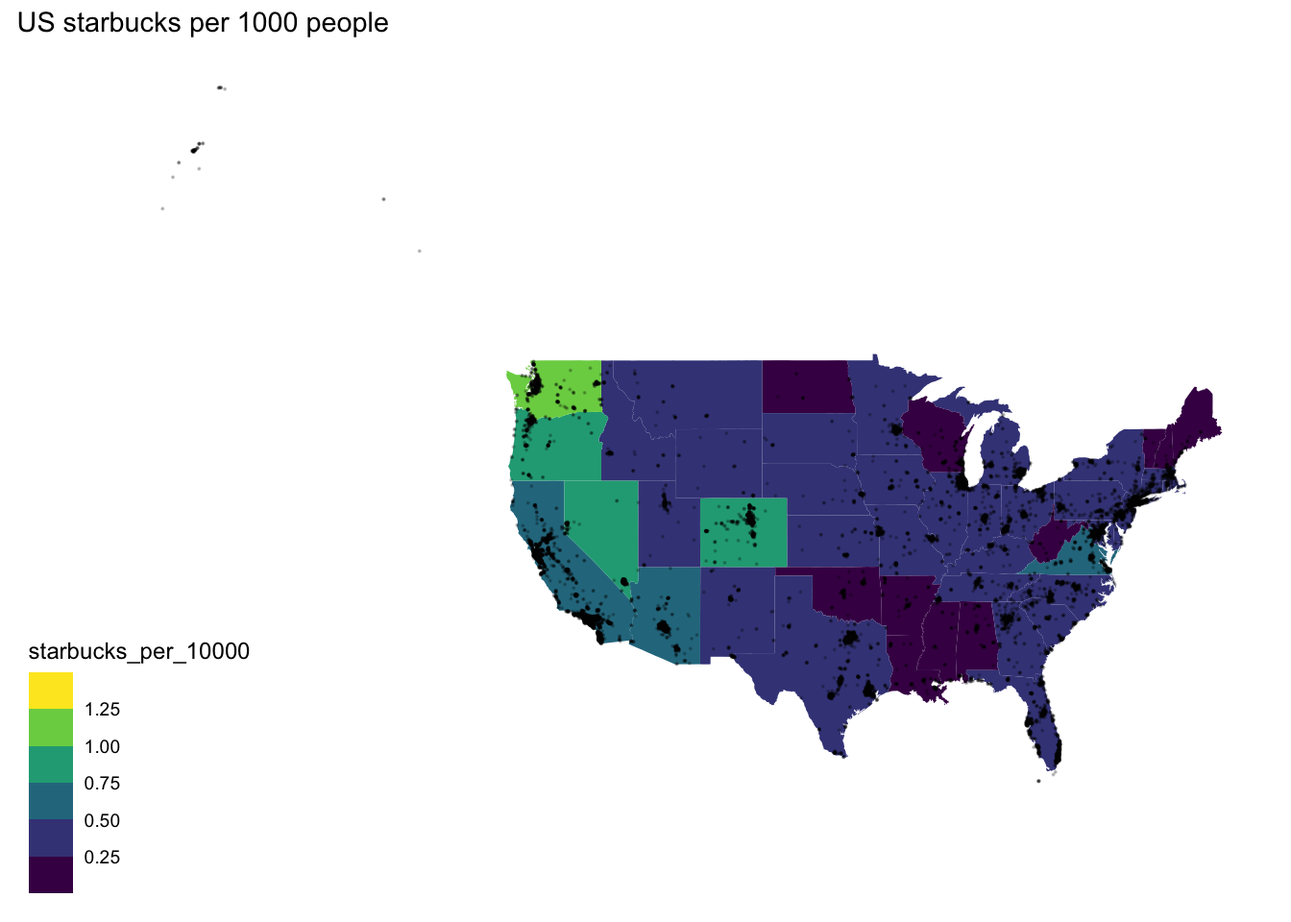
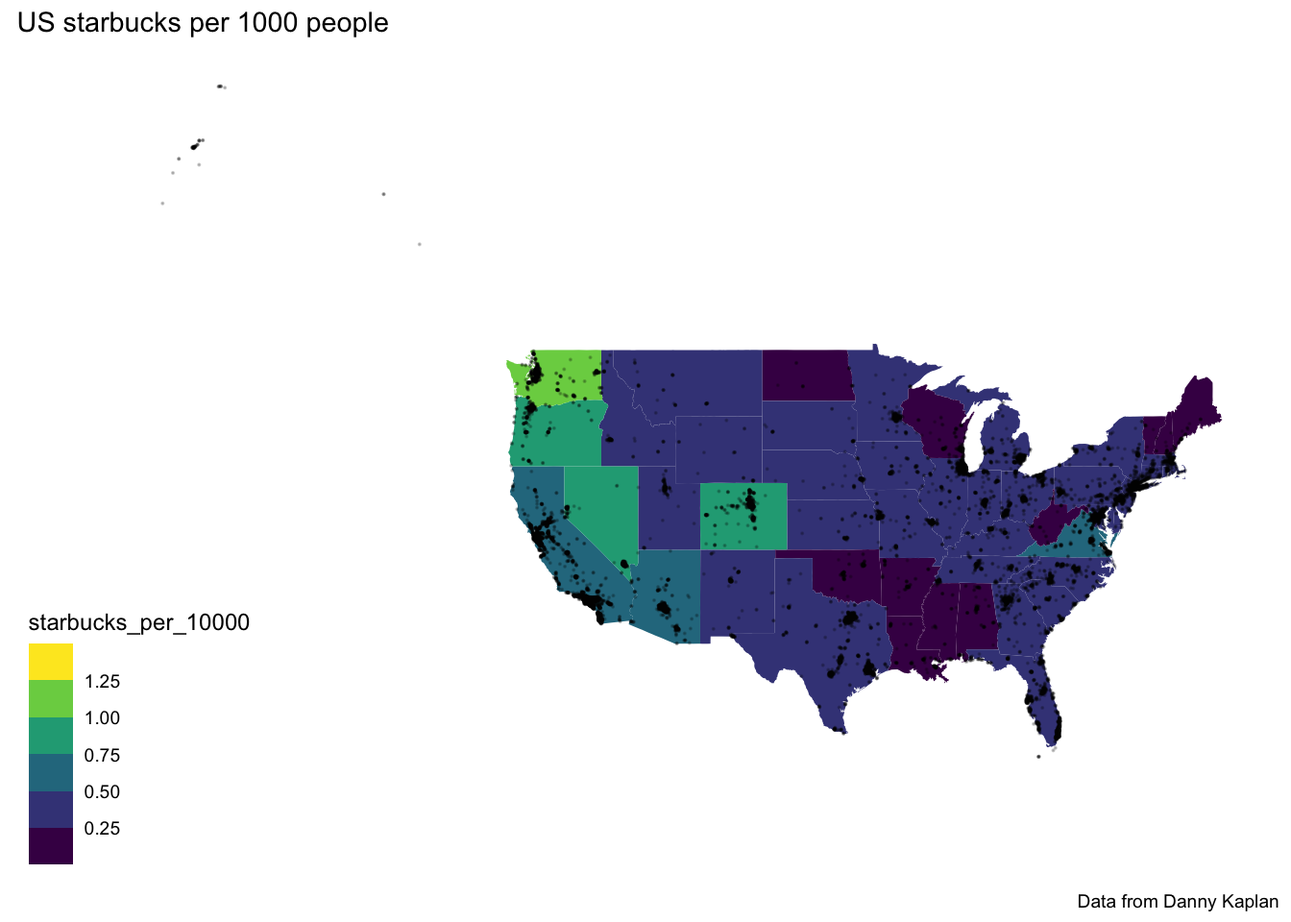
Built site for gh-pages

diff --git a/bw/bw-spatial.html b/bw/bw-spatial.html
@@ -270,7 +270,7 @@ pre > code.sourceCode > span > a:first-child::before { text-decoration: underlin
 <main class="content" id="quarto-document-content"><header id="title-block-header" class="quarto-title-block default"><nav class="quarto-page-breadcrumbs quarto-title-breadcrumbs d-none d-lg-block" aria-label="breadcrumb"><ol class="breadcrumb"><li class="breadcrumb-item"><a href="../bw/bw-uni.html">Best Work</a></li><li class="breadcrumb-item"><a href="../bw/bw-spatial.html"><span class="chapter-number">5</span>&nbsp; <span class="chapter-title">Spatial Viz</span></a></li></ol></nav><div class="quarto-title">
 <div class="quarto-title-block"><div><h1 class="title">
 <span class="chapter-number">5</span>&nbsp; <span class="chapter-title">Spatial Viz</span>
-</h1><button type="button" class="btn code-tools-button" id="quarto-code-tools-source"><i class="bi"></i> Code</button></div></div>
+</h1><button type="button" class="btn code-tools-button dropdown-toggle" id="quarto-code-tools-menu" data-bs-toggle="dropdown" aria-expanded="false"><i class="bi"></i> Code</button><ul class="dropdown-menu dropdown-menu-end" aria-labelelledby="quarto-code-tools-menu"><li><a id="quarto-show-all-code" class="dropdown-item" href="javascript:void(0)" role="button">Show All Code</a></li><li><a id="quarto-hide-all-code" class="dropdown-item" href="javascript:void(0)" role="button">Hide All Code</a></li><li><hr class="dropdown-divider"></li><li><a id="quarto-view-source" class="dropdown-item" href="javascript:void(0)" role="button">View Source</a></li></ul></div></div>
 </div>
 
 
@@ -285,80 +285,58 @@ pre > code.sourceCode > span > a:first-child::before { text-decoration: underlin
 
 
 </header><div class="cell">
-<div class="sourceCode cell-code" id="cb1"><pre class="sourceCode numberSource r number-lines code-with-copy"><code class="sourceCode r"><span id="cb1-1"><a href="#cb1-1"></a><span class="fu">library</span>(tidyr)</span>
+<details class="code-fold"><summary>Code</summary><div class="sourceCode cell-code" id="cb1"><pre class="sourceCode numberSource r number-lines code-with-copy"><code class="sourceCode r"><span id="cb1-1"><a href="#cb1-1"></a><span class="fu">library</span>(tidyr)</span>
 <span id="cb1-2"><a href="#cb1-2"></a><span class="fu">library</span>(ggplot2)</span>
-<span id="cb1-3"><a href="#cb1-3"></a><span class="fu">library</span>(tidyverse)</span></code><button title="Copy to Clipboard" class="code-copy-button"><i class="bi"></i></button></pre></div>
-<div class="cell-output cell-output-stderr">
-<pre><code>── Attaching core tidyverse packages ──────────────────────── tidyverse 2.0.0 ──
-✔ dplyr     1.1.4     ✔ readr     2.1.5
-✔ forcats   1.0.0     ✔ stringr   1.5.1
-✔ lubridate 1.9.4     ✔ tibble    3.2.1
-✔ purrr     1.0.2     
-── Conflicts ────────────────────────────────────────── tidyverse_conflicts() ──
-✖ dplyr::filter() masks stats::filter()
-✖ dplyr::lag()    masks stats::lag()
-ℹ Use the conflicted package (&lt;http://conflicted.r-lib.org/&gt;) to force all conflicts to become errors</code></pre>
-</div>
-<div class="sourceCode cell-code" id="cb3"><pre class="sourceCode numberSource r number-lines code-with-copy"><code class="sourceCode r"><span id="cb3-1"><a href="#cb3-1"></a><span class="fu">library</span>(openintro)</span></code><button title="Copy to Clipboard" class="code-copy-button"><i class="bi"></i></button></pre></div>
-<div class="cell-output cell-output-stderr">
-<pre><code>Loading required package: airports
-Loading required package: cherryblossom
-Loading required package: usdata</code></pre>
-</div>
-<div class="sourceCode cell-code" id="cb5"><pre class="sourceCode numberSource r number-lines code-with-copy"><code class="sourceCode r"><span id="cb5-1"><a href="#cb5-1"></a><span class="fu">library</span>(ggthemes)</span>
-<span id="cb5-2"><a href="#cb5-2"></a><span class="fu">library</span>(rnaturalearth)</span></code><button title="Copy to Clipboard" class="code-copy-button"><i class="bi"></i></button></pre></div>
+<span id="cb1-3"><a href="#cb1-3"></a><span class="fu">library</span>(tidyverse)</span>
+<span id="cb1-4"><a href="#cb1-4"></a><span class="fu">library</span>(openintro)</span>
+<span id="cb1-5"><a href="#cb1-5"></a><span class="fu">library</span>(ggthemes)</span>
+<span id="cb1-6"><a href="#cb1-6"></a><span class="fu">library</span>(rnaturalearth)</span></code><button title="Copy to Clipboard" class="code-copy-button"><i class="bi"></i></button></pre></div>
+</details>
 </div>
 <div class="cell">
-<div class="sourceCode cell-code" id="cb6"><pre class="sourceCode numberSource r number-lines code-with-copy"><code class="sourceCode r"><span id="cb6-1"><a href="#cb6-1"></a>world_boundaries <span class="ot">&lt;-</span> <span class="fu">ne_countries</span>(<span class="at">returnclass =</span> <span class="st">"sf"</span>)</span>
-<span id="cb6-2"><a href="#cb6-2"></a>states_map <span class="ot">&lt;-</span> <span class="fu">map_data</span>(<span class="st">"state"</span>)</span>
-<span id="cb6-3"><a href="#cb6-3"></a>starbucks <span class="ot">&lt;-</span> <span class="fu">read.csv</span>(<span class="st">"https://mac-stat.github.io/data/starbucks.csv"</span>)</span>
-<span id="cb6-4"><a href="#cb6-4"></a>starbucks_us_by_state <span class="ot">&lt;-</span> starbucks <span class="sc">|&gt;</span></span>
-<span id="cb6-5"><a href="#cb6-5"></a>  <span class="fu">filter</span>(Country <span class="sc">==</span> <span class="st">"US"</span>) <span class="sc">|&gt;</span></span>
-<span id="cb6-6"><a href="#cb6-6"></a>  <span class="fu">count</span>(State.Province) <span class="sc">|&gt;</span></span>
-<span id="cb6-7"><a href="#cb6-7"></a>  <span class="fu">mutate</span>(<span class="at">state_name =</span> <span class="fu">str_to_lower</span>(<span class="fu">abbr2state</span>(State.Province)))</span>
-<span id="cb6-8"><a href="#cb6-8"></a>starbucks_contiguous_us <span class="ot">&lt;-</span> starbucks <span class="sc">|&gt;</span></span>
-<span id="cb6-9"><a href="#cb6-9"></a>  <span class="fu">filter</span>(Country <span class="sc">==</span> <span class="st">"US"</span>, State.Province <span class="sc">!=</span> <span class="st">"AK"</span>, State.Province <span class="sc">!=</span> <span class="st">"HI"</span>)</span>
-<span id="cb6-10"><a href="#cb6-10"></a>census_pop_est_2018 <span class="ot">&lt;-</span> <span class="fu">read_csv</span>(<span class="st">"https://mac-stat.github.io/data/us_census_2018_state_pop_est.csv"</span>) <span class="sc">|&gt;</span></span>
-<span id="cb6-11"><a href="#cb6-11"></a>  <span class="fu">separate</span>(state, <span class="at">into =</span> <span class="fu">c</span>(<span class="st">"dot"</span>, <span class="st">"state"</span>), <span class="at">extra =</span> <span class="st">"merge"</span>) <span class="sc">|&gt;</span></span>
-<span id="cb6-12"><a href="#cb6-12"></a>  <span class="fu">select</span>(<span class="sc">-</span>dot) <span class="sc">|&gt;</span></span>
-<span id="cb6-13"><a href="#cb6-13"></a>  <span class="fu">mutate</span>(<span class="at">state =</span> <span class="fu">str_to_lower</span>(state))</span></code><button title="Copy to Clipboard" class="code-copy-button"><i class="bi"></i></button></pre></div>
-<div class="cell-output cell-output-stderr">
-<pre><code>Rows: 51 Columns: 2
-── Column specification ────────────────────────────────────────────────────────
-Delimiter: ","
-chr (1): state
-dbl (1): est_pop_2018
-
-ℹ Use `spec()` to retrieve the full column specification for this data.
-ℹ Specify the column types or set `show_col_types = FALSE` to quiet this message.</code></pre>
+<details class="code-fold"><summary>Code</summary><div class="sourceCode cell-code" id="cb2"><pre class="sourceCode numberSource r number-lines code-with-copy"><code class="sourceCode r"><span id="cb2-1"><a href="#cb2-1"></a>world_boundaries <span class="ot">&lt;-</span> <span class="fu">ne_countries</span>(<span class="at">returnclass =</span> <span class="st">"sf"</span>)</span>
+<span id="cb2-2"><a href="#cb2-2"></a>states_map <span class="ot">&lt;-</span> <span class="fu">map_data</span>(<span class="st">"state"</span>)</span>
+<span id="cb2-3"><a href="#cb2-3"></a>starbucks <span class="ot">&lt;-</span> <span class="fu">read.csv</span>(<span class="st">"https://mac-stat.github.io/data/starbucks.csv"</span>)</span>
+<span id="cb2-4"><a href="#cb2-4"></a>starbucks_us_by_state <span class="ot">&lt;-</span> starbucks <span class="sc">|&gt;</span></span>
+<span id="cb2-5"><a href="#cb2-5"></a>  <span class="fu">filter</span>(Country <span class="sc">==</span> <span class="st">"US"</span>) <span class="sc">|&gt;</span></span>
+<span id="cb2-6"><a href="#cb2-6"></a>  <span class="fu">count</span>(State.Province) <span class="sc">|&gt;</span></span>
+<span id="cb2-7"><a href="#cb2-7"></a>  <span class="fu">mutate</span>(<span class="at">state_name =</span> <span class="fu">str_to_lower</span>(<span class="fu">abbr2state</span>(State.Province)))</span>
+<span id="cb2-8"><a href="#cb2-8"></a>starbucks_contiguous_us <span class="ot">&lt;-</span> starbucks <span class="sc">|&gt;</span></span>
+<span id="cb2-9"><a href="#cb2-9"></a>  <span class="fu">filter</span>(Country <span class="sc">==</span> <span class="st">"US"</span>, State.Province <span class="sc">!=</span> <span class="st">"AK"</span>, State.Province <span class="sc">!=</span> <span class="st">"HI"</span>)</span>
+<span id="cb2-10"><a href="#cb2-10"></a>census_pop_est_2018 <span class="ot">&lt;-</span> <span class="fu">read_csv</span>(<span class="st">"https://mac-stat.github.io/data/us_census_2018_state_pop_est.csv"</span>) <span class="sc">|&gt;</span></span>
+<span id="cb2-11"><a href="#cb2-11"></a>  <span class="fu">separate</span>(state, <span class="at">into =</span> <span class="fu">c</span>(<span class="st">"dot"</span>, <span class="st">"state"</span>), <span class="at">extra =</span> <span class="st">"merge"</span>) <span class="sc">|&gt;</span></span>
+<span id="cb2-12"><a href="#cb2-12"></a>  <span class="fu">select</span>(<span class="sc">-</span>dot) <span class="sc">|&gt;</span></span>
+<span id="cb2-13"><a href="#cb2-13"></a>  <span class="fu">mutate</span>(<span class="at">state =</span> <span class="fu">str_to_lower</span>(state))</span>
+<span id="cb2-14"><a href="#cb2-14"></a></span>
+<span id="cb2-15"><a href="#cb2-15"></a>starbucks_with_2018_pop_est <span class="ot">&lt;-</span></span>
+<span id="cb2-16"><a href="#cb2-16"></a>  starbucks_us_by_state <span class="sc">|&gt;</span></span>
+<span id="cb2-17"><a href="#cb2-17"></a>  <span class="fu">left_join</span>(census_pop_est_2018,</span>
+<span id="cb2-18"><a href="#cb2-18"></a>    <span class="at">by =</span> <span class="fu">c</span>(<span class="st">"state_name"</span> <span class="ot">=</span> <span class="st">"state"</span>)</span>
+<span id="cb2-19"><a href="#cb2-19"></a>  ) <span class="sc">|&gt;</span></span>
+<span id="cb2-20"><a href="#cb2-20"></a>  <span class="fu">mutate</span>(<span class="at">starbucks_per_10000 =</span> (n <span class="sc">/</span> est_pop_2018) <span class="sc">*</span> <span class="dv">10000</span>)</span>
+<span id="cb2-21"><a href="#cb2-21"></a>starbucks_us <span class="ot">&lt;-</span> starbucks <span class="sc">|&gt;</span> </span>
+<span id="cb2-22"><a href="#cb2-22"></a>  <span class="fu">filter</span>(Country <span class="sc">==</span> <span class="st">"US"</span>)</span></code><button title="Copy to Clipboard" class="code-copy-button"><i class="bi"></i></button></pre></div>
+</details>
 </div>
-<div class="sourceCode cell-code" id="cb8"><pre class="sourceCode numberSource r number-lines code-with-copy"><code class="sourceCode r"><span id="cb8-1"><a href="#cb8-1"></a>starbucks_with_2018_pop_est <span class="ot">&lt;-</span></span>
-<span id="cb8-2"><a href="#cb8-2"></a>  starbucks_us_by_state <span class="sc">|&gt;</span></span>
-<span id="cb8-3"><a href="#cb8-3"></a>  <span class="fu">left_join</span>(census_pop_est_2018,</span>
-<span id="cb8-4"><a href="#cb8-4"></a>    <span class="at">by =</span> <span class="fu">c</span>(<span class="st">"state_name"</span> <span class="ot">=</span> <span class="st">"state"</span>)</span>
-<span id="cb8-5"><a href="#cb8-5"></a>  ) <span class="sc">|&gt;</span></span>
-<span id="cb8-6"><a href="#cb8-6"></a>  <span class="fu">mutate</span>(<span class="at">starbucks_per_10000 =</span> (n <span class="sc">/</span> est_pop_2018) <span class="sc">*</span> <span class="dv">10000</span>)</span>
-<span id="cb8-7"><a href="#cb8-7"></a>starbucks_us <span class="ot">&lt;-</span> starbucks <span class="sc">|&gt;</span> </span>
-<span id="cb8-8"><a href="#cb8-8"></a>  <span class="fu">filter</span>(Country <span class="sc">==</span> <span class="st">"US"</span>)</span></code><button title="Copy to Clipboard" class="code-copy-button"><i class="bi"></i></button></pre></div>
-</div>
-<p>Use this file to generate a professional looking <strong>spatial</strong> visualization. The visualization will not perfect the first time but you are expected to improve on it throughout the semester especially after covering advanced topics such as effective viz.</p>
 <div class="cell">
-<div class="sourceCode cell-code" id="cb9"><pre class="sourceCode numberSource r number-lines code-with-copy"><code class="sourceCode r"><span id="cb9-1"><a href="#cb9-1"></a> <span class="co">#| fig-cap: "US Starbucks per 1000 of American People."</span></span>
-<span id="cb9-2"><a href="#cb9-2"></a> <span class="co">#| fig-alt: "this map is a cholorpleth map of the united states that shows population in color and starbucks locations with black dots. more black dots are in heavily popualted areas like the west coast and east coast, the western midwest is sparser in starbucks."</span></span>
-<span id="cb9-3"><a href="#cb9-3"></a>starbucks_with_2018_pop_est <span class="sc">%&gt;%</span></span>
-<span id="cb9-4"><a href="#cb9-4"></a><span class="fu">ggplot</span>() <span class="sc">+</span></span>
-<span id="cb9-5"><a href="#cb9-5"></a>  <span class="fu">geom_map</span>(<span class="at">map =</span> states_map, <span class="fu">aes</span>(<span class="at">map_id =</span> state_name, <span class="at">fill =</span> starbucks_per_10000)) <span class="sc">+</span></span>
-<span id="cb9-6"><a href="#cb9-6"></a>  <span class="fu">geom_point</span>(</span>
-<span id="cb9-7"><a href="#cb9-7"></a>    <span class="at">data =</span> starbucks_us,</span>
-<span id="cb9-8"><a href="#cb9-8"></a>    <span class="fu">aes</span>(<span class="at">x =</span> Longitude, <span class="at">y =</span> Latitude),</span>
-<span id="cb9-9"><a href="#cb9-9"></a>    <span class="at">size =</span> <span class="fl">0.05</span>,</span>
-<span id="cb9-10"><a href="#cb9-10"></a>    <span class="at">alpha =</span> <span class="fl">0.2</span>,</span>
-<span id="cb9-11"><a href="#cb9-11"></a>    <span class="at">inherit.aes =</span> <span class="cn">FALSE</span></span>
-<span id="cb9-12"><a href="#cb9-12"></a>  ) <span class="sc">+</span></span>
-<span id="cb9-13"><a href="#cb9-13"></a>  <span class="fu">expand_limits</span>(<span class="at">x =</span> states_map<span class="sc">$</span>long, <span class="at">y =</span> states_map<span class="sc">$</span>lat) <span class="sc">+</span></span>
-<span id="cb9-14"><a href="#cb9-14"></a>  <span class="fu">theme_map</span>() <span class="sc">+</span> </span>
-<span id="cb9-15"><a href="#cb9-15"></a>    <span class="fu">labs</span>(<span class="at">title =</span> <span class="st">"US starbucks per 1000 people"</span>, <span class="at">color =</span> <span class="st">"starbucks_per_1000"</span>) <span class="sc">+</span></span>
-<span id="cb9-16"><a href="#cb9-16"></a>  <span class="fu">scale_fill_viridis_b</span>()</span></code><button title="Copy to Clipboard" class="code-copy-button"><i class="bi"></i></button></pre></div>
+<div class="sourceCode cell-code" id="cb3"><pre class="sourceCode numberSource r number-lines code-with-copy"><code class="sourceCode r"><span id="cb3-1"><a href="#cb3-1"></a> <span class="co">#| echo: true</span></span>
+<span id="cb3-2"><a href="#cb3-2"></a><span class="co">#| warning: false</span></span>
+<span id="cb3-3"><a href="#cb3-3"></a><span class="co">#| error: false</span></span>
+<span id="cb3-4"><a href="#cb3-4"></a><span class="co">#| code-fold: true</span></span>
+<span id="cb3-5"><a href="#cb3-5"></a>starbucks_with_2018_pop_est <span class="sc">%&gt;%</span></span>
+<span id="cb3-6"><a href="#cb3-6"></a><span class="fu">ggplot</span>() <span class="sc">+</span></span>
+<span id="cb3-7"><a href="#cb3-7"></a>  <span class="fu">geom_map</span>(<span class="at">map =</span> states_map, <span class="fu">aes</span>(<span class="at">map_id =</span> state_name, <span class="at">fill =</span> starbucks_per_10000)) <span class="sc">+</span></span>
+<span id="cb3-8"><a href="#cb3-8"></a>  <span class="fu">geom_point</span>(</span>
+<span id="cb3-9"><a href="#cb3-9"></a>    <span class="at">data =</span> starbucks_us,</span>
+<span id="cb3-10"><a href="#cb3-10"></a>    <span class="fu">aes</span>(<span class="at">x =</span> Longitude, <span class="at">y =</span> Latitude),</span>
+<span id="cb3-11"><a href="#cb3-11"></a>    <span class="at">size =</span> <span class="fl">0.05</span>,</span>
+<span id="cb3-12"><a href="#cb3-12"></a>    <span class="at">alpha =</span> <span class="fl">0.2</span>,</span>
+<span id="cb3-13"><a href="#cb3-13"></a>    <span class="at">inherit.aes =</span> <span class="cn">FALSE</span></span>
+<span id="cb3-14"><a href="#cb3-14"></a>  ) <span class="sc">+</span></span>
+<span id="cb3-15"><a href="#cb3-15"></a>  <span class="fu">expand_limits</span>(<span class="at">x =</span> states_map<span class="sc">$</span>long, <span class="at">y =</span> states_map<span class="sc">$</span>lat) <span class="sc">+</span></span>
+<span id="cb3-16"><a href="#cb3-16"></a>  <span class="fu">theme_map</span>() <span class="sc">+</span> </span>
+<span id="cb3-17"><a href="#cb3-17"></a>    <span class="fu">labs</span>(<span class="at">title =</span> <span class="st">"US starbucks per 1000 people"</span>, <span class="at">color =</span> <span class="st">"Amount of Starbucks per 1000"</span>, <span class="at">caption =</span> <span class="st">"Data from Danny Kaplan"</span>, <span class="at">alt =</span><span class="st">"This plot is a map of the amout of Starbucks' per 1000 people in the US."</span>) <span class="sc">+</span></span>
+<span id="cb3-18"><a href="#cb3-18"></a>  <span class="fu">scale_fill_viridis_b</span>() </span></code><button title="Copy to Clipboard" class="code-copy-button"><i class="bi"></i></button></pre></div>
 <div class="cell-output-display">
 <div>
 <figure class="figure"><p><img src="bw-spatial_files/figure-html/unnamed-chunk-3-1.png" class="img-fluid figure-img" width="672"></p>
@@ -1001,62 +979,72 @@ window.document.addEventListener("DOMContentLoaded", function (event) {
       </a>
   </div>
 </nav><div class="modal fade" id="quarto-embedded-source-code-modal" tabindex="-1" aria-labelledby="quarto-embedded-source-code-modal-label" aria-hidden="true"><div class="modal-dialog modal-dialog-scrollable"><div class="modal-content"><div class="modal-header"><h5 class="modal-title" id="quarto-embedded-source-code-modal-label">Source Code</h5><button class="btn-close" data-bs-dismiss="modal"></button></div><div class="modal-body"><div class="">
-<div class="sourceCode" id="cb10" data-shortcodes="false"><pre class="sourceCode numberSource markdown number-lines code-with-copy"><code class="sourceCode markdown"><span id="cb10-1"><a href="#cb10-1"></a><span class="co">---</span></span>
-<span id="cb10-2"><a href="#cb10-2"></a><span class="an">title:</span><span class="co"> "Spatial Viz"</span></span>
-<span id="cb10-3"><a href="#cb10-3"></a><span class="co">---</span></span>
-<span id="cb10-6"><a href="#cb10-6"></a><span class="in">```{r}</span></span>
-<span id="cb10-7"><a href="#cb10-7"></a><span class="fu">library</span>(tidyr)</span>
-<span id="cb10-8"><a href="#cb10-8"></a><span class="fu">library</span>(ggplot2)</span>
-<span id="cb10-9"><a href="#cb10-9"></a><span class="fu">library</span>(tidyverse)</span>
-<span id="cb10-10"><a href="#cb10-10"></a><span class="fu">library</span>(openintro)</span>
-<span id="cb10-11"><a href="#cb10-11"></a><span class="fu">library</span>(ggthemes)</span>
-<span id="cb10-12"><a href="#cb10-12"></a><span class="fu">library</span>(rnaturalearth)</span>
-<span id="cb10-13"><a href="#cb10-13"></a><span class="in">```</span></span>
-<span id="cb10-16"><a href="#cb10-16"></a><span class="in">```{r}</span></span>
-<span id="cb10-17"><a href="#cb10-17"></a>world_boundaries <span class="ot">&lt;-</span> <span class="fu">ne_countries</span>(<span class="at">returnclass =</span> <span class="st">"sf"</span>)</span>
-<span id="cb10-18"><a href="#cb10-18"></a>states_map <span class="ot">&lt;-</span> <span class="fu">map_data</span>(<span class="st">"state"</span>)</span>
-<span id="cb10-19"><a href="#cb10-19"></a>starbucks <span class="ot">&lt;-</span> <span class="fu">read.csv</span>(<span class="st">"https://mac-stat.github.io/data/starbucks.csv"</span>)</span>
-<span id="cb10-20"><a href="#cb10-20"></a>starbucks_us_by_state <span class="ot">&lt;-</span> starbucks <span class="sc">|&gt;</span></span>
-<span id="cb10-21"><a href="#cb10-21"></a>  <span class="fu">filter</span>(Country <span class="sc">==</span> <span class="st">"US"</span>) <span class="sc">|&gt;</span></span>
-<span id="cb10-22"><a href="#cb10-22"></a>  <span class="fu">count</span>(State.Province) <span class="sc">|&gt;</span></span>
-<span id="cb10-23"><a href="#cb10-23"></a>  <span class="fu">mutate</span>(<span class="at">state_name =</span> <span class="fu">str_to_lower</span>(<span class="fu">abbr2state</span>(State.Province)))</span>
-<span id="cb10-24"><a href="#cb10-24"></a>starbucks_contiguous_us <span class="ot">&lt;-</span> starbucks <span class="sc">|&gt;</span></span>
-<span id="cb10-25"><a href="#cb10-25"></a>  <span class="fu">filter</span>(Country <span class="sc">==</span> <span class="st">"US"</span>, State.Province <span class="sc">!=</span> <span class="st">"AK"</span>, State.Province <span class="sc">!=</span> <span class="st">"HI"</span>)</span>
-<span id="cb10-26"><a href="#cb10-26"></a>census_pop_est_2018 <span class="ot">&lt;-</span> <span class="fu">read_csv</span>(<span class="st">"https://mac-stat.github.io/data/us_census_2018_state_pop_est.csv"</span>) <span class="sc">|&gt;</span></span>
-<span id="cb10-27"><a href="#cb10-27"></a>  <span class="fu">separate</span>(state, <span class="at">into =</span> <span class="fu">c</span>(<span class="st">"dot"</span>, <span class="st">"state"</span>), <span class="at">extra =</span> <span class="st">"merge"</span>) <span class="sc">|&gt;</span></span>
-<span id="cb10-28"><a href="#cb10-28"></a>  <span class="fu">select</span>(<span class="sc">-</span>dot) <span class="sc">|&gt;</span></span>
-<span id="cb10-29"><a href="#cb10-29"></a>  <span class="fu">mutate</span>(<span class="at">state =</span> <span class="fu">str_to_lower</span>(state))</span>
-<span id="cb10-30"><a href="#cb10-30"></a></span>
-<span id="cb10-31"><a href="#cb10-31"></a>starbucks_with_2018_pop_est <span class="ot">&lt;-</span></span>
-<span id="cb10-32"><a href="#cb10-32"></a>  starbucks_us_by_state <span class="sc">|&gt;</span></span>
-<span id="cb10-33"><a href="#cb10-33"></a>  <span class="fu">left_join</span>(census_pop_est_2018,</span>
-<span id="cb10-34"><a href="#cb10-34"></a>    <span class="at">by =</span> <span class="fu">c</span>(<span class="st">"state_name"</span> <span class="ot">=</span> <span class="st">"state"</span>)</span>
-<span id="cb10-35"><a href="#cb10-35"></a>  ) <span class="sc">|&gt;</span></span>
-<span id="cb10-36"><a href="#cb10-36"></a>  <span class="fu">mutate</span>(<span class="at">starbucks_per_10000 =</span> (n <span class="sc">/</span> est_pop_2018) <span class="sc">*</span> <span class="dv">10000</span>)</span>
-<span id="cb10-37"><a href="#cb10-37"></a>starbucks_us <span class="ot">&lt;-</span> starbucks <span class="sc">|&gt;</span> </span>
-<span id="cb10-38"><a href="#cb10-38"></a>  <span class="fu">filter</span>(Country <span class="sc">==</span> <span class="st">"US"</span>)</span>
-<span id="cb10-39"><a href="#cb10-39"></a></span>
-<span id="cb10-40"><a href="#cb10-40"></a><span class="in">```</span></span>
-<span id="cb10-41"><a href="#cb10-41"></a></span>
-<span id="cb10-42"><a href="#cb10-42"></a>Use this file to generate a professional looking **spatial** visualization.  The visualization will not perfect the first time but you are expected to improve on it throughout the semester especially after covering advanced topics such as effective viz.</span>
-<span id="cb10-45"><a href="#cb10-45"></a><span class="in">```{r}</span></span>
-<span id="cb10-46"><a href="#cb10-46"></a> <span class="co">#| fig-cap: "US Starbucks per 1000 of American People."</span></span>
-<span id="cb10-47"><a href="#cb10-47"></a> <span class="co">#| fig-alt: "this map is a cholorpleth map of the united states that shows population in color and starbucks locations with black dots. more black dots are in heavily popualted areas like the west coast and east coast, the western midwest is sparser in starbucks."</span></span>
-<span id="cb10-48"><a href="#cb10-48"></a>starbucks_with_2018_pop_est <span class="sc">%&gt;%</span></span>
-<span id="cb10-49"><a href="#cb10-49"></a><span class="fu">ggplot</span>() <span class="sc">+</span></span>
-<span id="cb10-50"><a href="#cb10-50"></a>  <span class="fu">geom_map</span>(<span class="at">map =</span> states_map, <span class="fu">aes</span>(<span class="at">map_id =</span> state_name, <span class="at">fill =</span> starbucks_per_10000)) <span class="sc">+</span></span>
-<span id="cb10-51"><a href="#cb10-51"></a>  <span class="fu">geom_point</span>(</span>
-<span id="cb10-52"><a href="#cb10-52"></a>    <span class="at">data =</span> starbucks_us,</span>
-<span id="cb10-53"><a href="#cb10-53"></a>    <span class="fu">aes</span>(<span class="at">x =</span> Longitude, <span class="at">y =</span> Latitude),</span>
-<span id="cb10-54"><a href="#cb10-54"></a>    <span class="at">size =</span> <span class="fl">0.05</span>,</span>
-<span id="cb10-55"><a href="#cb10-55"></a>    <span class="at">alpha =</span> <span class="fl">0.2</span>,</span>
-<span id="cb10-56"><a href="#cb10-56"></a>    <span class="at">inherit.aes =</span> <span class="cn">FALSE</span></span>
-<span id="cb10-57"><a href="#cb10-57"></a>  ) <span class="sc">+</span></span>
-<span id="cb10-58"><a href="#cb10-58"></a>  <span class="fu">expand_limits</span>(<span class="at">x =</span> states_map<span class="sc">$</span>long, <span class="at">y =</span> states_map<span class="sc">$</span>lat) <span class="sc">+</span></span>
-<span id="cb10-59"><a href="#cb10-59"></a>  <span class="fu">theme_map</span>() <span class="sc">+</span> </span>
-<span id="cb10-60"><a href="#cb10-60"></a>    <span class="fu">labs</span>(<span class="at">title =</span> <span class="st">"US starbucks per 1000 people"</span>, <span class="at">color =</span> <span class="st">"starbucks_per_1000"</span>) <span class="sc">+</span></span>
-<span id="cb10-61"><a href="#cb10-61"></a>  <span class="fu">scale_fill_viridis_b</span>()</span>
-<span id="cb10-62"><a href="#cb10-62"></a><span class="in">```</span></span>
+<div class="sourceCode" id="cb4" data-shortcodes="false"><pre class="sourceCode numberSource markdown number-lines code-with-copy"><code class="sourceCode markdown"><span id="cb4-1"><a href="#cb4-1"></a><span class="co">---</span></span>
+<span id="cb4-2"><a href="#cb4-2"></a><span class="an">title:</span><span class="co"> "Spatial Viz"</span></span>
+<span id="cb4-3"><a href="#cb4-3"></a><span class="co">---</span></span>
+<span id="cb4-6"><a href="#cb4-6"></a><span class="in">```{r}</span></span>
+<span id="cb4-7"><a href="#cb4-7"></a><span class="co">#| echo: true</span></span>
+<span id="cb4-8"><a href="#cb4-8"></a><span class="co">#| warning: false</span></span>
+<span id="cb4-9"><a href="#cb4-9"></a><span class="co">#| error: false</span></span>
+<span id="cb4-10"><a href="#cb4-10"></a><span class="co">#| code-fold: true</span></span>
+<span id="cb4-11"><a href="#cb4-11"></a><span class="fu">library</span>(tidyr)</span>
+<span id="cb4-12"><a href="#cb4-12"></a><span class="fu">library</span>(ggplot2)</span>
+<span id="cb4-13"><a href="#cb4-13"></a><span class="fu">library</span>(tidyverse)</span>
+<span id="cb4-14"><a href="#cb4-14"></a><span class="fu">library</span>(openintro)</span>
+<span id="cb4-15"><a href="#cb4-15"></a><span class="fu">library</span>(ggthemes)</span>
+<span id="cb4-16"><a href="#cb4-16"></a><span class="fu">library</span>(rnaturalearth)</span>
+<span id="cb4-17"><a href="#cb4-17"></a><span class="in">```</span></span>
+<span id="cb4-20"><a href="#cb4-20"></a><span class="in">```{r}</span></span>
+<span id="cb4-21"><a href="#cb4-21"></a><span class="co">#| echo: true</span></span>
+<span id="cb4-22"><a href="#cb4-22"></a><span class="co">#| warning: false</span></span>
+<span id="cb4-23"><a href="#cb4-23"></a><span class="co">#| error: false</span></span>
+<span id="cb4-24"><a href="#cb4-24"></a><span class="co">#| code-fold: true</span></span>
+<span id="cb4-25"><a href="#cb4-25"></a>world_boundaries <span class="ot">&lt;-</span> <span class="fu">ne_countries</span>(<span class="at">returnclass =</span> <span class="st">"sf"</span>)</span>
+<span id="cb4-26"><a href="#cb4-26"></a>states_map <span class="ot">&lt;-</span> <span class="fu">map_data</span>(<span class="st">"state"</span>)</span>
+<span id="cb4-27"><a href="#cb4-27"></a>starbucks <span class="ot">&lt;-</span> <span class="fu">read.csv</span>(<span class="st">"https://mac-stat.github.io/data/starbucks.csv"</span>)</span>
+<span id="cb4-28"><a href="#cb4-28"></a>starbucks_us_by_state <span class="ot">&lt;-</span> starbucks <span class="sc">|&gt;</span></span>
+<span id="cb4-29"><a href="#cb4-29"></a>  <span class="fu">filter</span>(Country <span class="sc">==</span> <span class="st">"US"</span>) <span class="sc">|&gt;</span></span>
+<span id="cb4-30"><a href="#cb4-30"></a>  <span class="fu">count</span>(State.Province) <span class="sc">|&gt;</span></span>
+<span id="cb4-31"><a href="#cb4-31"></a>  <span class="fu">mutate</span>(<span class="at">state_name =</span> <span class="fu">str_to_lower</span>(<span class="fu">abbr2state</span>(State.Province)))</span>
+<span id="cb4-32"><a href="#cb4-32"></a>starbucks_contiguous_us <span class="ot">&lt;-</span> starbucks <span class="sc">|&gt;</span></span>
+<span id="cb4-33"><a href="#cb4-33"></a>  <span class="fu">filter</span>(Country <span class="sc">==</span> <span class="st">"US"</span>, State.Province <span class="sc">!=</span> <span class="st">"AK"</span>, State.Province <span class="sc">!=</span> <span class="st">"HI"</span>)</span>
+<span id="cb4-34"><a href="#cb4-34"></a>census_pop_est_2018 <span class="ot">&lt;-</span> <span class="fu">read_csv</span>(<span class="st">"https://mac-stat.github.io/data/us_census_2018_state_pop_est.csv"</span>) <span class="sc">|&gt;</span></span>
+<span id="cb4-35"><a href="#cb4-35"></a>  <span class="fu">separate</span>(state, <span class="at">into =</span> <span class="fu">c</span>(<span class="st">"dot"</span>, <span class="st">"state"</span>), <span class="at">extra =</span> <span class="st">"merge"</span>) <span class="sc">|&gt;</span></span>
+<span id="cb4-36"><a href="#cb4-36"></a>  <span class="fu">select</span>(<span class="sc">-</span>dot) <span class="sc">|&gt;</span></span>
+<span id="cb4-37"><a href="#cb4-37"></a>  <span class="fu">mutate</span>(<span class="at">state =</span> <span class="fu">str_to_lower</span>(state))</span>
+<span id="cb4-38"><a href="#cb4-38"></a></span>
+<span id="cb4-39"><a href="#cb4-39"></a>starbucks_with_2018_pop_est <span class="ot">&lt;-</span></span>
+<span id="cb4-40"><a href="#cb4-40"></a>  starbucks_us_by_state <span class="sc">|&gt;</span></span>
+<span id="cb4-41"><a href="#cb4-41"></a>  <span class="fu">left_join</span>(census_pop_est_2018,</span>
+<span id="cb4-42"><a href="#cb4-42"></a>    <span class="at">by =</span> <span class="fu">c</span>(<span class="st">"state_name"</span> <span class="ot">=</span> <span class="st">"state"</span>)</span>
+<span id="cb4-43"><a href="#cb4-43"></a>  ) <span class="sc">|&gt;</span></span>
+<span id="cb4-44"><a href="#cb4-44"></a>  <span class="fu">mutate</span>(<span class="at">starbucks_per_10000 =</span> (n <span class="sc">/</span> est_pop_2018) <span class="sc">*</span> <span class="dv">10000</span>)</span>
+<span id="cb4-45"><a href="#cb4-45"></a>starbucks_us <span class="ot">&lt;-</span> starbucks <span class="sc">|&gt;</span> </span>
+<span id="cb4-46"><a href="#cb4-46"></a>  <span class="fu">filter</span>(Country <span class="sc">==</span> <span class="st">"US"</span>)</span>
+<span id="cb4-47"><a href="#cb4-47"></a></span>
+<span id="cb4-48"><a href="#cb4-48"></a><span class="in">```</span></span>
+<span id="cb4-49"><a href="#cb4-49"></a></span>
+<span id="cb4-50"><a href="#cb4-50"></a></span>
+<span id="cb4-53"><a href="#cb4-53"></a><span class="in">```{r}</span></span>
+<span id="cb4-54"><a href="#cb4-54"></a> <span class="co">#| echo: true</span></span>
+<span id="cb4-55"><a href="#cb4-55"></a><span class="co">#| warning: false</span></span>
+<span id="cb4-56"><a href="#cb4-56"></a><span class="co">#| error: false</span></span>
+<span id="cb4-57"><a href="#cb4-57"></a><span class="co">#| code-fold: true</span></span>
+<span id="cb4-58"><a href="#cb4-58"></a>starbucks_with_2018_pop_est <span class="sc">%&gt;%</span></span>
+<span id="cb4-59"><a href="#cb4-59"></a><span class="fu">ggplot</span>() <span class="sc">+</span></span>
+<span id="cb4-60"><a href="#cb4-60"></a>  <span class="fu">geom_map</span>(<span class="at">map =</span> states_map, <span class="fu">aes</span>(<span class="at">map_id =</span> state_name, <span class="at">fill =</span> starbucks_per_10000)) <span class="sc">+</span></span>
+<span id="cb4-61"><a href="#cb4-61"></a>  <span class="fu">geom_point</span>(</span>
+<span id="cb4-62"><a href="#cb4-62"></a>    <span class="at">data =</span> starbucks_us,</span>
+<span id="cb4-63"><a href="#cb4-63"></a>    <span class="fu">aes</span>(<span class="at">x =</span> Longitude, <span class="at">y =</span> Latitude),</span>
+<span id="cb4-64"><a href="#cb4-64"></a>    <span class="at">size =</span> <span class="fl">0.05</span>,</span>
+<span id="cb4-65"><a href="#cb4-65"></a>    <span class="at">alpha =</span> <span class="fl">0.2</span>,</span>
+<span id="cb4-66"><a href="#cb4-66"></a>    <span class="at">inherit.aes =</span> <span class="cn">FALSE</span></span>
+<span id="cb4-67"><a href="#cb4-67"></a>  ) <span class="sc">+</span></span>
+<span id="cb4-68"><a href="#cb4-68"></a>  <span class="fu">expand_limits</span>(<span class="at">x =</span> states_map<span class="sc">$</span>long, <span class="at">y =</span> states_map<span class="sc">$</span>lat) <span class="sc">+</span></span>
+<span id="cb4-69"><a href="#cb4-69"></a>  <span class="fu">theme_map</span>() <span class="sc">+</span> </span>
+<span id="cb4-70"><a href="#cb4-70"></a>    <span class="fu">labs</span>(<span class="at">title =</span> <span class="st">"US starbucks per 1000 people"</span>, <span class="at">color =</span> <span class="st">"Amount of Starbucks per 1000"</span>, <span class="at">caption =</span> <span class="st">"Data from Danny Kaplan"</span>, <span class="at">alt =</span><span class="st">"This plot is a map of the amout of Starbucks' per 1000 people in the US."</span>) <span class="sc">+</span></span>
+<span id="cb4-71"><a href="#cb4-71"></a>  <span class="fu">scale_fill_viridis_b</span>() </span>
+<span id="cb4-72"><a href="#cb4-72"></a><span class="in">```</span></span>
 </code><button title="Copy to Clipboard" class="code-copy-button" data-in-quarto-modal=""><i class="bi"></i></button></pre></div>
 </div></div></div></div></div>
 </div> <!-- /content -->
